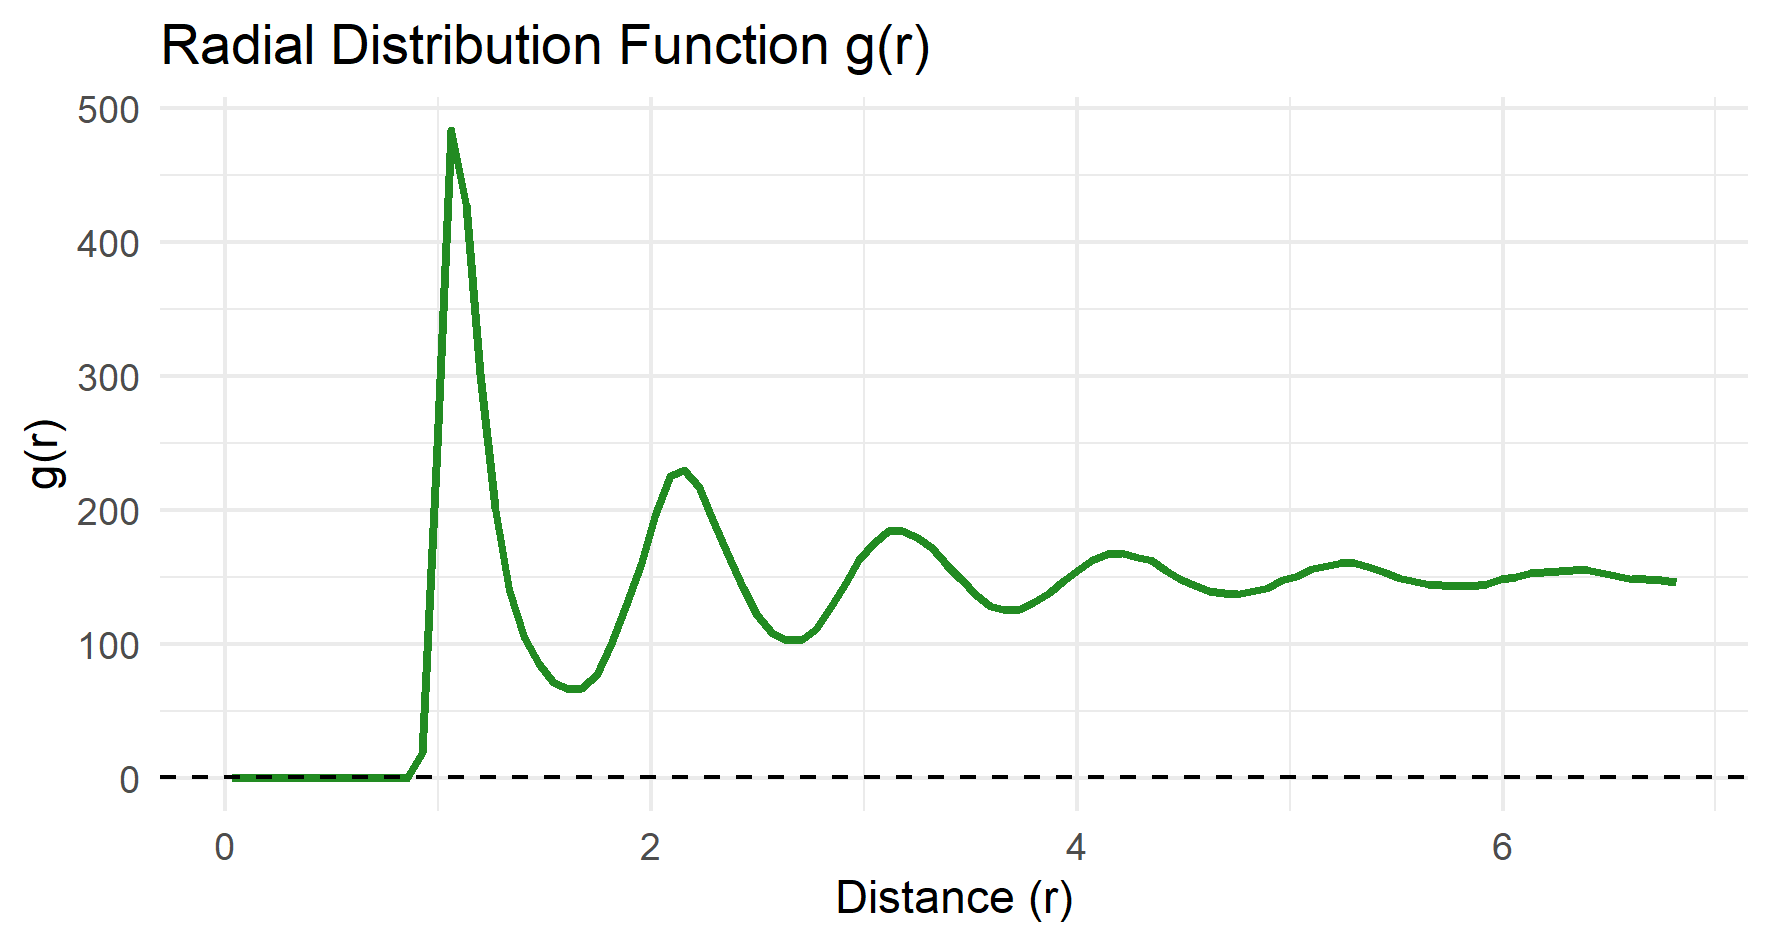
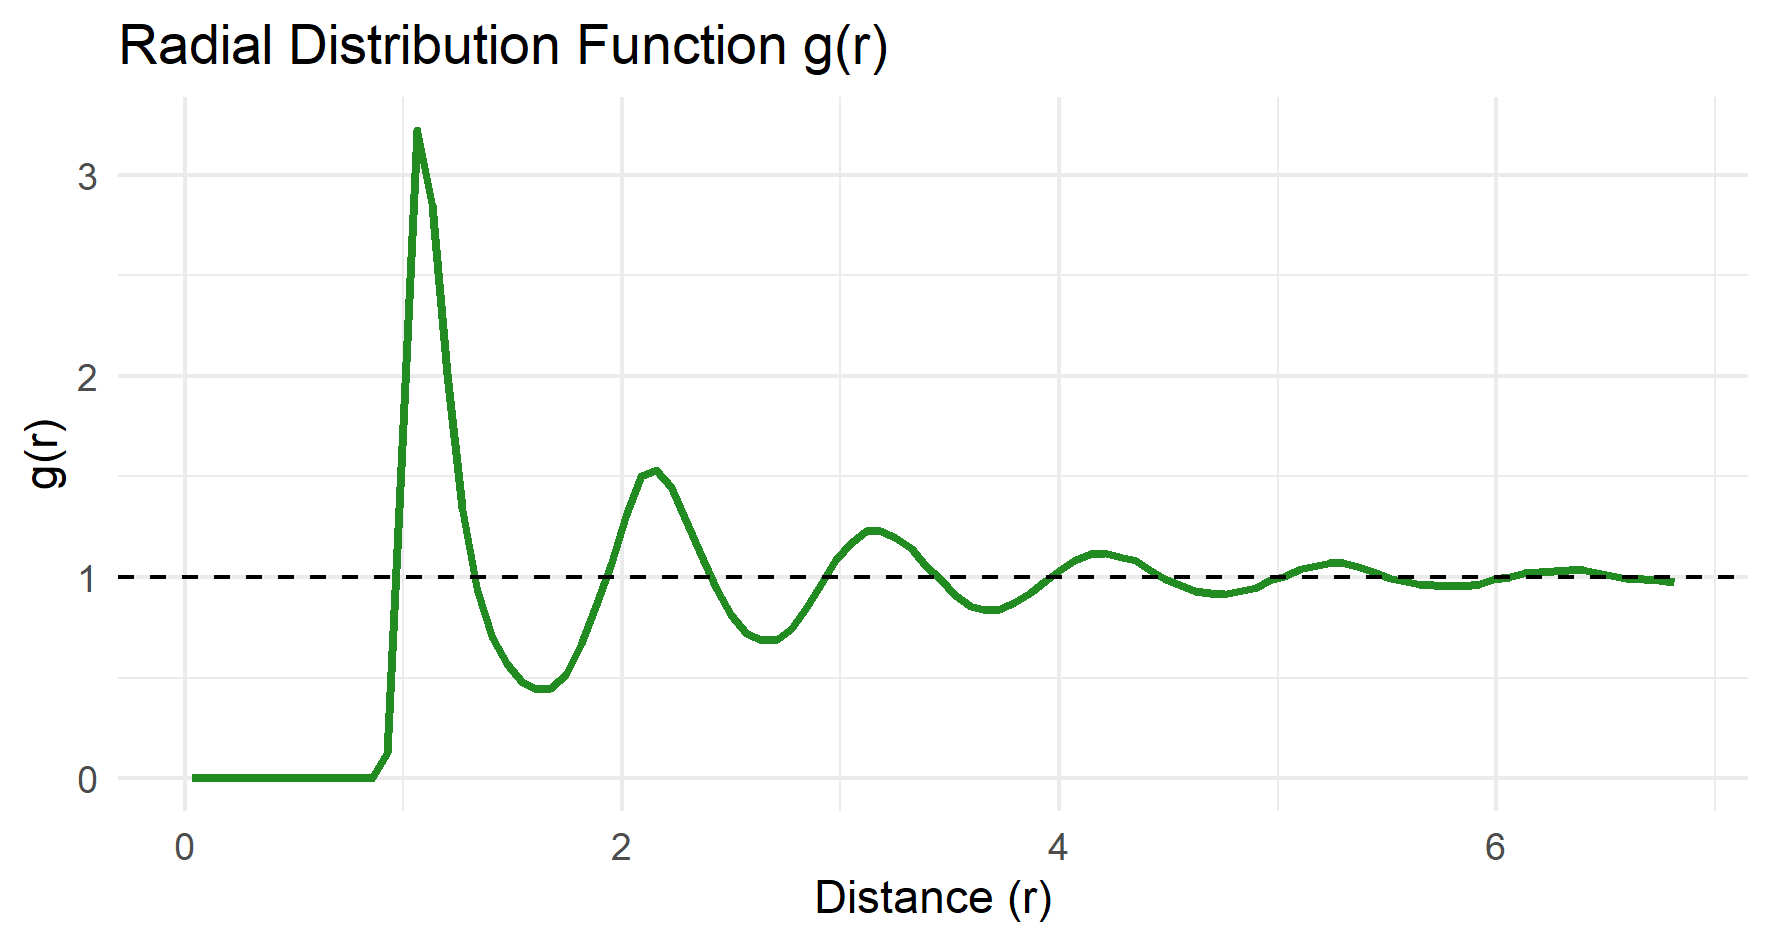
completed!

diff --git a/MA3PPR_Report_32005096.tex b/MA3PPR_Report_32005096.tex
@@ -151,7 +151,7 @@
     
 
 \maketitle
-\vspace{20mm}
+\vspace{10mm}
 
 
 %-----------------------------------------------------------------------------------PLAIN LANGUAGE SUMMARY BEGINS
@@ -170,8 +170,10 @@ These findings consist of the total energy within the system
 and the radial distribution function.
 \vspace{2mm}
 
-What we conclude is
-
+What we conclude is that the Monte Carlo method is highly effective at mimicking physics.
+By tracking their energy, we proved that simulated particles successfully settled into a stable liquid state.
+Measuring the distances between particles showed that they clustered together exactly as expected for a fluid.
+This demonstrates that these computational techniques are powerful tools for recreating and predicting the behaviour of complex materials without needing physical experiments, or increasingly large (and cost-heavy) models.
 \end{abstract}
 
 %-----------------------------------------------------------------------------------PLAIN LANGUAGE SUMMARY ENDS
@@ -201,7 +203,6 @@ b. I acknowledge the use of \textcolor{red}{[]} to generate materials that were 
 \newpage
 
 \tableofcontents
-\newpage
 \listoftables
 \vspace*{0.05\textheight}
 \listoffigures
@@ -330,7 +331,7 @@ When initially proposed in this report, the field of Monte Carlo methods had not
 
             As, arguably, the most widely used PRNG in the modern day, the Mersenne Twister can be found in many software libraries for standard random generation. These include, but are not limited to, Python, Ruby, and R.
             One of its multiple variant forms can be used in C++ through \verb|std::mt19937| in the standard library. Due to these occurrences, it is highly likely that within code used in this report (found in the Appendices), the Mersenne Twister is the PRNG that has contributed random elements.
-            For this reason, my C++ simulation (see Appendix E) has employed the use of the mentioned Mersenne Twister.
+            For this reason, my C++ simulation (see Appendix C) has employed the use of the mentioned Mersenne Twister.
     
     \newpage
     \subsection{Sampling Methodology}
@@ -454,7 +455,7 @@ When initially proposed in this report, the field of Monte Carlo methods had not
 
         \subsubsection{Displaying The Potential Visually}
             The Lennard-Jones plot can be shown in a graphical manner, representing the various elements of the equation, as described earlier.
-            Setting $\sigma,\: \varepsilon\; =\; 0$, for simplicities sake, generates the following graph, programmed in python (see Appendix C) using, primarily, the matplotlib library \citep{Hunter07}.
+            Setting $\sigma,\: \varepsilon\; =\; 0$, for simplicities sake, generates the following graph, programmed in python (see Appendix E) using, primarily, the matplotlib library \citep{Hunter07}.
             \begin{center}
                 \includegraphics[width = 11cm, height = 11cm, keepaspectratio]{assets/LennardJonesPlot.png}
                 \captionof{figure}{\small\textbf{Lennard-Jones Potential Plot}}
@@ -532,13 +533,22 @@ When initially proposed in this report, the field of Monte Carlo methods had not
             If $\Delta E > 0$, the move is accepted conditionally by comparing the Boltzmann weight $\exp(-\Delta E / T)$ (using reduced units where $k_B = 1$) against a generated pseudo-random number.
             This occasional acceptance of uphill energy moves allows the system to escape local energy minima and accurately sample the phase space.
         
-        \subsubsection{Post-Simulation Data Analysis}
-            During the simulation, a tracking function isolates distinct points: every 10 cycles, the total energy of the system is calculated and recorded to monitor equilibration.
-            Simultaneously, the distances between all particle pairs are sampled and tallied into histogram bins to track structural data, in order to compute the radial distribution function later on.
-            
-            Once the 5000 cycles are complete, this data is exported into \textbf{`csv'} files (see Appendices G and H).
-            Externally, programmed in R, the \verb|ggplot2| library is used to plot the data after import.
-            Statistical normalisation takes place in order to convert the raw rdf data into a radial distribution function.
+    \newpage
+    \subsection{Post-Simulation Data Analysis}
+        The majority of the post-simulation data analysis is handled in an R program (see Appendix F). 
+        During the simulation, a tracking function isolates distinct points: every 10 cycles, the total energy of the system is calculated and recorded to monitor equilibration.
+        
+        Simultaneously, the distances between all particle pairs are sampled and tallied into histogram bins to track structural data, in order to compute the \textbf{`radial distribution function'} later on.
+        The radial distribution function is a tool in statistical mechanics used to describe the internal structure of a fluid.
+        It defines the probability of finding a particle at a specific distance $r$ from a chosen reference particle, relative to the probability expected in a completely uniform, non-interacting ideal gas. 
+        
+        Physically, $g(r)$ reveals the structure of the system.
+        In crystalline solids, particles are locked in fixed lattice positions, resulting in $g(r)$ displaying an infinite series of sharp peaks.
+        In a simple liquid, however, $g(r)$ will display a few distinct peaks at short distances, representing tightly packed shells of nearest-neighbour atoms, before decaying and evaluating out to a value of $1$ at larger distances \citep{RadialDistributionFunction21}.
+        
+        Once the 5000 cycles are complete, this data is exported into \textbf{`csv'} files (see Appendices G and H).
+        Externally, programmed in R, the \verb|ggplot2| library is used to plot the data after import.
+        Statistical normalisation takes place in order to convert the raw rdf data into a radial distribution function.
     
     \subsection{Code Origin and Inspiration}
         My code was built on a framework of \textbf{Fortran} code from 'Understanding Molecular Simulation' by Daan Frenkel and Berend Smit \citep{Frenkel96}.
@@ -546,7 +556,6 @@ When initially proposed in this report, the field of Monte Carlo methods had not
         These were adapted and rewritten from scratch, by me, into \textbf{C++}.
         My program can be found in the appendix of this report (see Appendix E).
 
-\newpage
 \section{Application of Code to a Lennard-Jones liquid}
     \subsection{Total Energy in Plots}
         \begin{center}
@@ -554,18 +563,63 @@ When initially proposed in this report, the field of Monte Carlo methods had not
             \captionof{figure}{\small\textbf{Total Energy of Simulation}}
         \end{center}
 
-    \subsection{Numerical Analysis}
-        \subsubsection{Radial Distribution Function}
-            \begin{center}
-                \includegraphics[width = 15cm, height = 8cm, keepaspectratio]{assets/rdf_Data_plot.png}
-                \captionof{figure}{\small\textbf{Radial Distribution Function}}
-            \end{center}
+        The plot above displays the total potential energy of the system across the 5000 Monte Carlo cycles.
+        Initially, the system begins with an artificial configuration because the 150 particles were specifically placed onto a uniform lattice to prevent infinite repulsion and overlap. 
+        
+        As the Metropolis algorithm begins to iterate, the system rapidly explores new microstates, causing fluctuations in the total energy.
+        Around the 1000-cycle mark, the red trendline starts to demonstrate a stabilisation of sorts, with the total energy plateauing and fluctuating steadily around the $-320$ to $-330$ reduced energy mark.
+        
+        This plateau is proof of equilibration.
+        It shows that the starting lattice has completely settled into a liquid and the system has reached a stable equilibrium corresponding to a Lennard-Jones liquid.
+        The continuous fluctuations around this plateau represent the natural thermodynamic variance of a system at equilibrium within an ensemble.
 
-        \subsubsection{Mean-Squared Displacements}
-        \subsubsection{Diffusion Coefficients}
+    \subsection{Radial Distribution Function}
+        \begin{center}
+            \includegraphics[width = 15cm, height = 8cm, keepaspectratio]{assets/rdf_Data_plot.png}
+            \captionof{figure}{\small\textbf{Radial Distribution Function}}
+        \end{center}
+
+        To analyse the structural properties of the simulated liquid, a Radial Distribution Function, $g(r)$, was computed.
+        The raw counts extracted from the C++ code were normalised in R (using the formula $2\pi r \Delta r \rho$).
+        The resulting graph demonstrates the physical characteristics of a simple liquid:
+        
+        \begin{itemize}
+            \item \textbf{The `Dead Zone' ($r < 0.9$):} For distances less than 0.9, $g(r)$ is exactly zero. This proves the successful implementation of the $1/r^{12}$ repulsion term in the code; atoms cannot physically overlap, so the probability of finding two particles this close together is zero.
+            \item \textbf{The First Coordination Shell ($r \approx 1.1$):} The massive spike just after the dead zone represents the first coordination shell. It highlights the high probability of finding a tightly packed ring of nearest-neighbour atoms clustered immediately around any given reference particle.
+            \item \textbf{Short-Range Ordering ($1.5 < r < 3.0$):} Following the first peak, the graph shows a distinct valley and a subsequent, smaller second peak. This oscillating structure demonstrates short-range ordering, proving the system is a condensed liquid rather than a completely random, structureless gas.
+            \item \textbf{Long-Range Limit ($r \to \infty$):} As distance increases, the graph flattens out and tends towards $g(r) = 1$. At these distances, the central reference particle no longer exerts any significant attractive or repulsive influence. Consequently, the local density simply equals the uniform density of the system, acting like an ideal gas. This lack of long-range order distinguishes the liquid phase from a solid crystal (which would display sharp peaks indefinitely).
+        \end{itemize}
 
 \newpage
 \section{Conclusions, Findings, Prospectives}
+    This project set out to explore numerical simulation methods, specifically focusing on the application of the Monte Carlo Metropolis algorithm to a particle-based system.
+    By using theories of statistical mechanics, importance sampling, and detailed balance, a C++ program was developed to simulate a simple Lennard-Jones liquid of 150 particles.
+    
+    The findings were routine and the simulation in question ran as expected.
+    The total energy tracking demonstrated that the algorithm correctly guided the system from an initial lattice into a stable thermodynamic equilibrium.
+    In addition to this, post-simulation data analysis conducted in R yielded a Radial Distribution Function that perfectly aligned with the theoretical structural expectations of a simple liquid.
+    
+    \subsection{Limitations and Prospectives:}
+        While the simulation did successfully model liquid behaviour, it was not without limitations.
+        The system was deliberately scaled to simulate $N=150$ particles and while this count was sufficient to demonstrate core physics behind the liquid, a system of relatively small size is inherently subject to finite-size anomalies.
+        This can even be in spite of mitigating effects of Periodic Boundary Conditions.
+        Additionally, the simulation was constrained to two dimensions, which restricts direct comparative accuracy to real-world three-dimensional bulk fluids.
+    
+        Were this done again, expanding the simulation into three dimensions would be a logical next step.
+        Dramatically increasing the particle count to observe true macroscopic thermodynamic limits would also be important.
+
+    \subsection{Broader Physical Implications:}
+        While the simulated Lennard-Jones liquid is a simplified model, the methodologies validated in this project serve as a foundation for more advanced molecular modelling.
+        The ability to derive properties, such as the radial distribution function, from fundamental pair potentials is a crucial tool in materials science.
+        As outlined in the broader scope of statistical mechanics, scaling these exact Monte Carlo principles to more complex systems allows for much without the need for costly experimentation.
+  
+    \subsection{Personal Reflections}
+    From a personal perspective, this project provided insight into theoretical research and computational physics.
+    Translating literature into C++ required a lot of technique and research, such as statistical mechanics, detailed balance and the Boltzmann distribution.
+    
+    Strategic decision-making directly lead to the choice of simulate a two-dimensional liquid rather than using a cubic lattice.
+
+    
 \newpage
 %-----------------------------------------------------------------------------------REPORT BODY ENDS
 
@@ -594,9 +648,10 @@ When initially proposed in this report, the field of Monte Carlo methods had not
             \includegraphics{assets/ApproximationOfPi_GraphicalRepresentation_Output.png}
         \end{center}
 
+    
     \newpage
-    \section{Lennard-Jones Potential, Simple Plot in Python}
-    \lstinputlisting[title=\lstname]{LennardJonesPotential/src/LennardJonesPotential.py}
+    \section{Monte Carlo C++ Code}
+    \lstinputlisting[style=customcpp, title=\lstname]{ParticleSimulation/src/main.cpp}
 
 
     \newpage
@@ -608,10 +663,9 @@ When initially proposed in this report, the field of Monte Carlo methods had not
         \small\textbf{via \citep{Wasserman04}}
     \end{flushright}
 
-
     \newpage
-    \section{Monte Carlo C++ Code}
-    \lstinputlisting[style=customcpp, title=\lstname]{ParticleSimulation/src/main.cpp}
+    \section{Lennard-Jones Potential, Simple Plot in Python}
+    \lstinputlisting[title=\lstname]{LennardJonesPotential/src/LennardJonesPotential.py}
 
     \newpage
     \section{Data Analysis R Code}